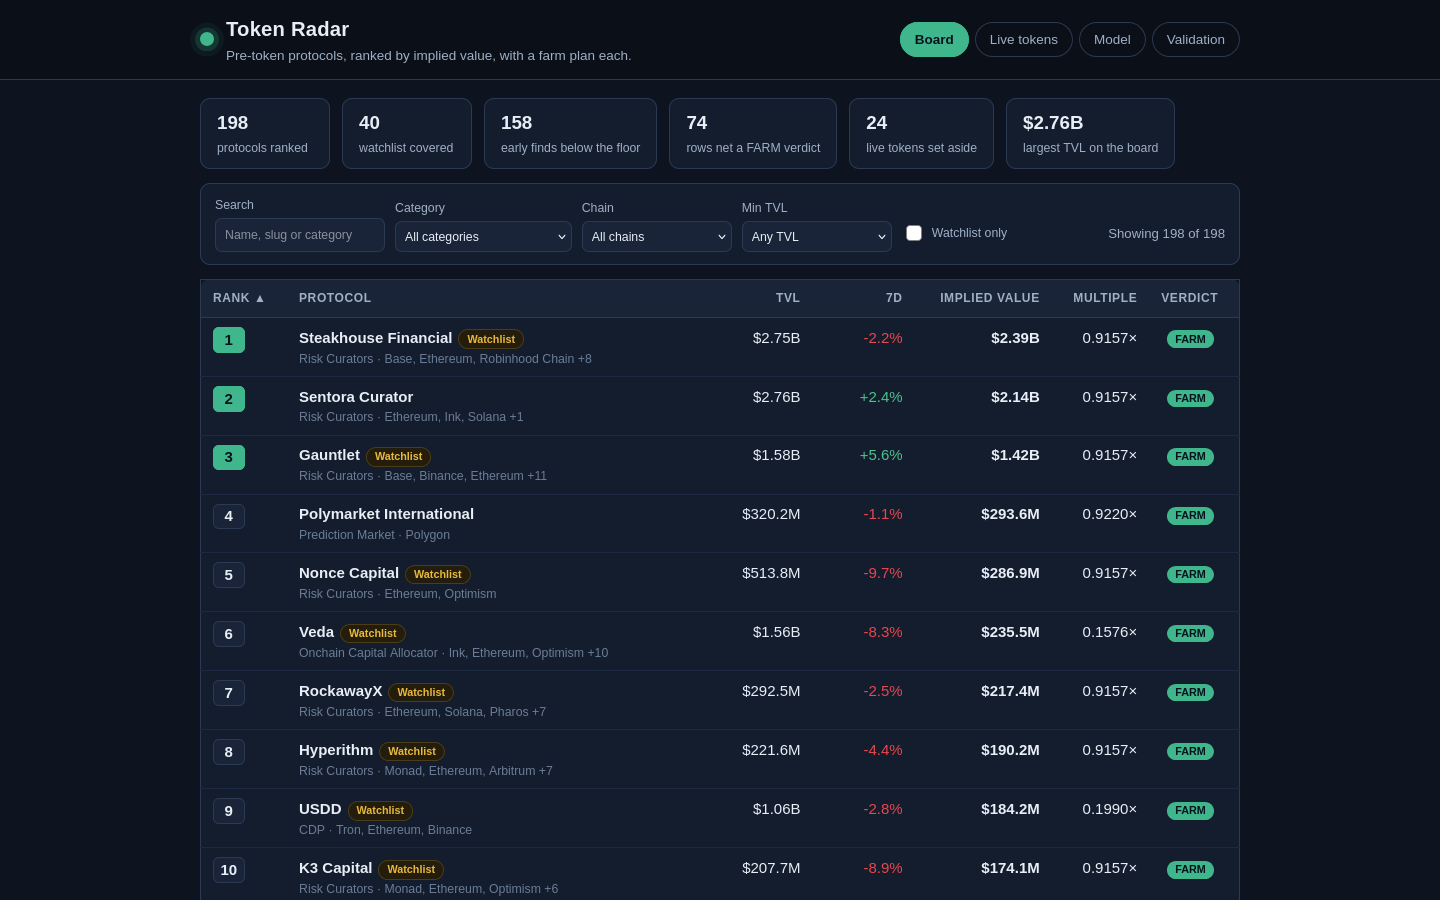
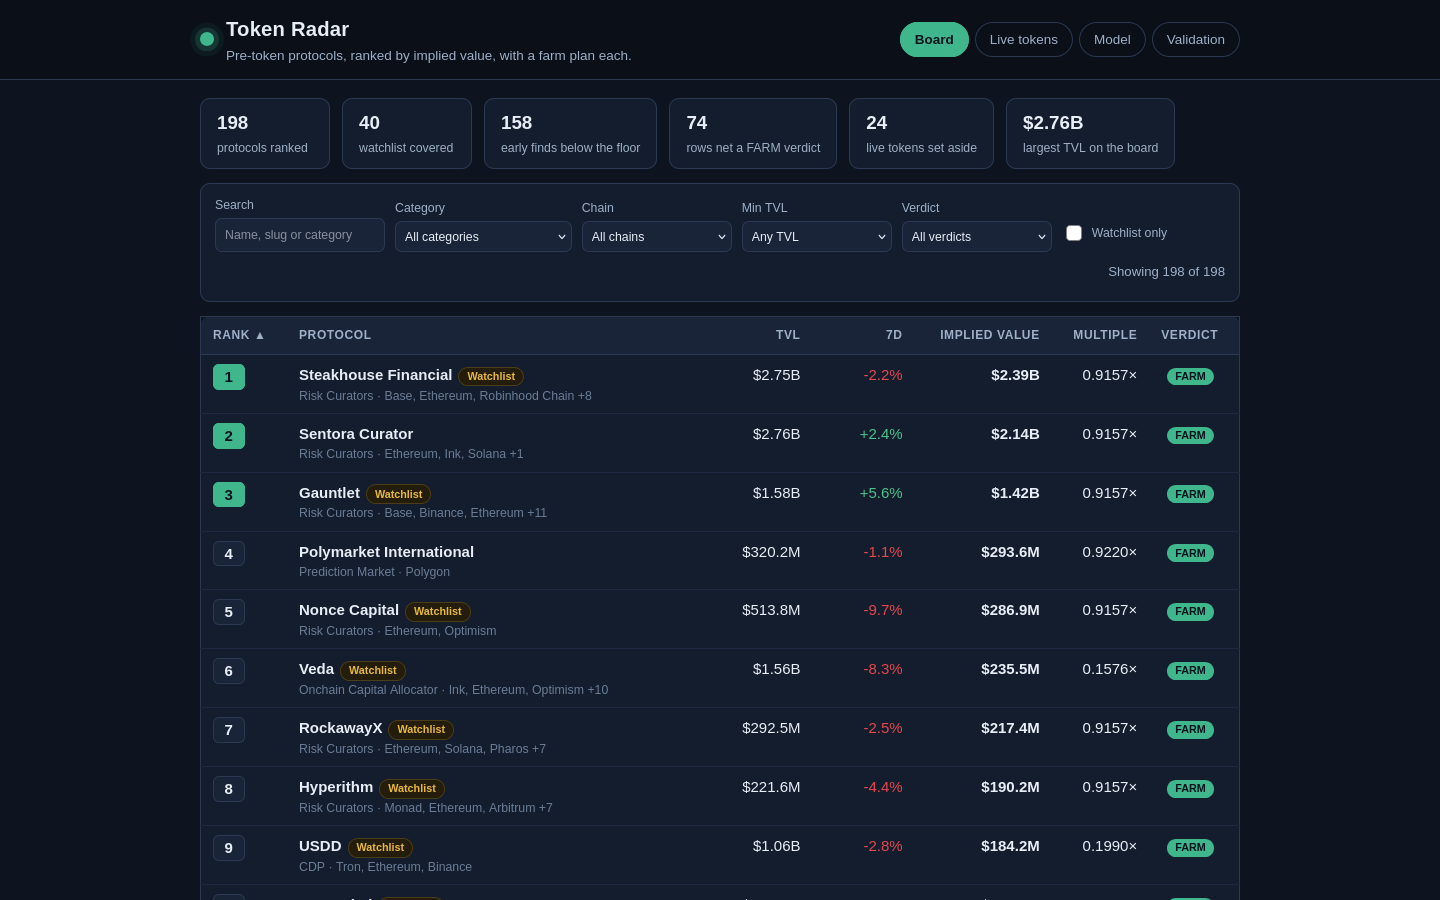
radar-comps-3: two-way blind holdout, verdict filter
validateOutOfSample now runs both directions: each half of the traded
set is predicted by a fit that never saw it, so all 92 traded protocols
are predicted blind (pooled median miss 88.2%, 63.0% within 2x). The
Validation view shows the pooled result plus both splits. The board
gains a verdict filter (FARM/THIN/SKIP with counts).

diff --git a/dashboard/app.js b/dashboard/app.js
@@ -13,10 +13,12 @@
  * protocols in that category, shrunk toward the global median when the
  * category has few traded peers. See the Model view for the full table.
  *
- * The model is tested blind in validateOutOfSample(): multiples fitted on
- * half the traded protocols, the other half predicted unseen. Every farm
- * plan ends in a netted verdict from verdictFor(): the low end of the
- * comps band against the plan's own gas and fees, FARM, THIN or SKIP.
+ * The model is tested blind in validateOutOfSample(), twice: multiples
+ * fitted on half the traded protocols, the other half predicted unseen,
+ * then the halves swap, so every traded protocol is predicted exactly
+ * once by a fit that never saw it. Every farm plan ends in a netted
+ * verdict from verdictFor(): the low end of the comps band against the
+ * plan's own gas and fees, FARM, THIN or SKIP.
  */
 (function () {
   'use strict';
@@ -143,26 +145,36 @@
     return table;
   }
 
-  /* The blind holdout: traded protocols sorted by slug, split into
-     alternating halves; multiples fitted on the even half only, the odd
-     half's market caps predicted with impliedValue(). Mirrors
-     validateOutOfSample() in lib/model.ts. */
+  /* The blind holdout, run both ways: traded protocols sorted by slug,
+     split into alternating halves; multiples fitted on one half only,
+     the other half's market caps predicted with impliedValue() — then
+     the halves swap, so every traded protocol is predicted exactly once.
+     Mirrors validateOutOfSample() in lib/model.ts. */
   function validateOutOfSample(comps, asOf, model) {
     var sorted = comps.slice().sort(function (a, b) { return a.slug < b.slug ? -1 : a.slug > b.slug ? 1 : 0; });
-    var fit = [], test = [], i;
-    for (i = 0; i < sorted.length; i++) { if (i % 2 === 0) fit.push(sorted[i]); else test.push(sorted[i]); }
-    var fitComps = calibrateCompsFrom(fit, model);
-    var predictions = test.map(function (p) {
-      var predicted = impliedValue(p, asOf, fitComps, model).implied;
-      return { slug: p.slug, name: p.name, actual: p.mcap_usd, predicted: predicted, abs_error: Math.abs(predicted - p.mcap_usd) / p.mcap_usd };
-    });
-    predictions.sort(function (a, b) { return a.abs_error - b.abs_error || (a.slug < b.slug ? -1 : 1); });
-    var errors = predictions.map(function (p) { return p.abs_error; }).sort(function (a, b) { return a - b; });
-    var n = errors.length;
-    var within2 = 0, within3 = 0;
-    for (i = 0; i < n; i++) { if (errors[i] <= 1) within2++; if (errors[i] <= 2) within3++; }
-    return { fit_count: fit.length, test_count: test.length, median_abs_error: n === 0 ? NaN : median(errors),
-      within_2x: n === 0 ? 0 : within2 / n, within_3x: n === 0 ? 0 : within3 / n, predictions: predictions };
+    function runSplit(fit, test) {
+      var fitComps = calibrateCompsFrom(fit, model);
+      var predictions = test.map(function (p) {
+        var predicted = impliedValue(p, asOf, fitComps, model).implied;
+        return { slug: p.slug, name: p.name, actual: p.mcap_usd, predicted: predicted, abs_error: Math.abs(predicted - p.mcap_usd) / p.mcap_usd };
+      });
+      predictions.sort(function (a, b) { return a.abs_error - b.abs_error || (a.slug < b.slug ? -1 : 1); });
+      var errors = predictions.map(function (p) { return p.abs_error; }).sort(function (a, b) { return a - b; });
+      var n = errors.length, within2 = 0, within3 = 0, i;
+      for (i = 0; i < n; i++) { if (errors[i] <= 1) within2++; if (errors[i] <= 2) within3++; }
+      return { fit_count: fit.length, test_count: test.length, median_abs_error: n === 0 ? NaN : median(errors),
+        within_2x: n === 0 ? 0 : within2 / n, within_3x: n === 0 ? 0 : within3 / n, predictions: predictions };
+    }
+    var even = [], odd = [], i;
+    for (i = 0; i < sorted.length; i++) { if (i % 2 === 0) even.push(sorted[i]); else odd.push(sorted[i]); }
+    var splits = [runSplit(even, odd), runSplit(odd, even)];
+    var pooledPredictions = splits[0].predictions.concat(splits[1].predictions).sort(
+      function (a, b) { return a.abs_error - b.abs_error || (a.slug < b.slug ? -1 : 1); });
+    var pooledErrors = pooledPredictions.map(function (p) { return p.abs_error; }).sort(function (a, b) { return a - b; });
+    var n = pooledErrors.length, within2 = 0, within3 = 0;
+    for (i = 0; i < n; i++) { if (pooledErrors[i] <= 1) within2++; if (pooledErrors[i] <= 2) within3++; }
+    return { splits: splits, pooled: { count: n, median_abs_error: n === 0 ? NaN : median(pooledErrors),
+      within_2x: n === 0 ? 0 : within2 / n, within_3x: n === 0 ? 0 : within3 / n, predictions: pooledPredictions } };
   }
 
   /* ---------- the farm plan (mirrors lib/model.ts: same steps, same costs) ---------- */
@@ -346,12 +358,14 @@
      the screenshots show is what this source computes. */
   var bands = bandTable(R.comp_protocols, R.model);
   var validation = validateOutOfSample(R.comp_protocols, R.as_of, R.model);
-  var farmCount = 0;
+  var farmCount = 0, thinCount = 0, skipCount = 0;
   rows.forEach(function (r) {
     var v = impliedValue(r, R.as_of, R.comps, R.model);
     r.verdict = verdictFor(r, v, bands, R.model);
     r.verdict_rank = r.verdict.verdict === 'FARM' ? 0 : r.verdict.verdict === 'THIN' ? 1 : 2;
     if (r.verdict.verdict === 'FARM') farmCount++;
+    else if (r.verdict.verdict === 'THIN') thinCount++;
+    else skipCount++;
   });
 
   var state = {
@@ -360,6 +374,7 @@
     query: '',
     category: '',
     chain: '',
+    verdict: '',
     watchOnly: false,
     minTvl: 0,
     sortKey: 'rank',
@@ -376,6 +391,7 @@
       if (q && (r.name.toLowerCase().indexOf(q) === -1 && r.slug.indexOf(q) === -1 && String(r.category || '').toLowerCase().indexOf(q) === -1)) return false;
       if (state.category && r.category !== state.category) return false;
       if (state.chain && r.chains.indexOf(state.chain) === -1) return false;
+      if (state.verdict && r.verdict.verdict !== state.verdict) return false;
       if (state.watchOnly && !isWatchlisted(r)) return false;
       if (r.tvl_usd < state.minTvl) return false;
       return true;
@@ -438,12 +454,18 @@
       '<option value="100000000"' + (state.minTvl === 100000000 ? ' selected' : '') + '>$100M+</option>' +
       '<option value="500000000"' + (state.minTvl === 500000000 ? ' selected' : '') + '>$500M+</option>' +
       '<option value="1000000000"' + (state.minTvl === 1000000000 ? ' selected' : '') + '>$1B+</option></select></label>' +
+      '<label class="field">Verdict<select id="f-verdict">' +
+      '<option value=""' + (state.verdict === '' ? ' selected' : '') + '>All verdicts</option>' +
+      '<option value="FARM"' + (state.verdict === 'FARM' ? ' selected' : '') + '>FARM (' + farmCount + ')</option>' +
+      '<option value="THIN"' + (state.verdict === 'THIN' ? ' selected' : '') + '>THIN (' + thinCount + ')</option>' +
+      '<option value="SKIP"' + (state.verdict === 'SKIP' ? ' selected' : '') + '>SKIP (' + skipCount + ')</option></select></label>' +
       '<label class="field check"><input id="f-watch" type="checkbox"' + (state.watchOnly ? ' checked' : '') + '> Watchlist only</label>' +
       '<span class="count" id="f-count"></span>';
     document.getElementById('f-q').addEventListener('input', function (e) { state.query = e.target.value; renderView(); });
     document.getElementById('f-cat').addEventListener('change', function (e) { state.category = e.target.value; renderView(); });
     document.getElementById('f-chain').addEventListener('change', function (e) { state.chain = e.target.value; renderView(); });
     document.getElementById('f-tvl').addEventListener('change', function (e) { state.minTvl = Number(e.target.value); renderView(); });
+    document.getElementById('f-verdict').addEventListener('change', function (e) { state.verdict = e.target.value; renderView(); });
     document.getElementById('f-watch').addEventListener('change', function (e) { state.watchOnly = e.target.checked; renderView(); });
   }
 
@@ -536,8 +558,9 @@
   }
 
   function validationHtml() {
-    var best = validation.predictions.slice(0, 5);
-    var worst = validation.predictions.slice(-5).reverse();
+    var pooled = validation.pooled;
+    var best = pooled.predictions.slice(0, 5);
+    var worst = pooled.predictions.slice(-5).reverse();
     function predRows(list) {
       return list.map(function (p) {
         return '<tr><td><span class="name">' + esc(p.name) + '</span><div class="sub">' + esc(p.slug) + '</div></td>' +
@@ -545,16 +568,24 @@
           '<td class="num">' + pctPlain(p.abs_error * 100) + '</td></tr>';
       }).join('');
     }
+    var splitRows = validation.splits.map(function (s, i) {
+      return '<tr><td>' + (i === 0 ? 'A: fitted on even slugs' : 'B: fitted on odd slugs') + '</td>' +
+        '<td class="num">' + s.fit_count + '</td><td class="num">' + s.test_count + '</td>' +
+        '<td class="num">' + pctPlain(s.median_abs_error * 100) + '</td>' +
+        '<td class="num">' + pctPlain(s.within_2x * 100) + '</td>' +
+        '<td class="num">' + pctPlain(s.within_3x * 100) + '</td></tr>';
+    }).join('');
     return '<article class="detail"><h2>Validation: tested blind</h2>' +
-      '<p class="meta">The multiples are fitted on one half of the traded protocols and tested on the other half, which calibration never sees. The split is every second protocol in slug order, so anyone can reproduce it.</p>' +
+      '<p class="meta">The multiples are fitted on one half of the traded protocols and tested on the other half, which calibration never sees — then the halves swap, so every traded protocol is predicted exactly once by a fit that never saw it. The split is every second protocol in slug order, so anyone can reproduce it.</p>' +
       '<div class="grid">' +
-      '<div class="cell"><span>Fitted on</span><b>' + validation.fit_count + ' traded protocols</b></div>' +
-      '<div class="cell"><span>Tested on</span><b>' + validation.test_count + ' unseen protocols</b></div>' +
-      '<div class="cell"><span>Median miss</span><b>' + pctPlain(validation.median_abs_error * 100) + '</b></div>' +
-      '<div class="cell"><span>Within 2× of the market cap</span><b>' + pctPlain(validation.within_2x * 100) + '</b></div>' +
-      '<div class="cell"><span>Within 3×</span><b>' + pctPlain(validation.within_3x * 100) + '</b></div>' +
+      '<div class="cell"><span>Predicted blind</span><b>' + pooled.count + ' traded protocols</b></div>' +
+      '<div class="cell"><span>Median miss</span><b>' + pctPlain(pooled.median_abs_error * 100) + '</b></div>' +
+      '<div class="cell"><span>Within 2× of the market cap</span><b>' + pctPlain(pooled.within_2x * 100) + '</b></div>' +
+      '<div class="cell"><span>Within 3×</span><b>' + pctPlain(pooled.within_3x * 100) + '</b></div>' +
       '</div>' +
-      '<p class="sub">A comps multiple is a rough instrument: the median unseen protocol is missed by about ' + pctPlain(validation.median_abs_error * 100) + '. The board ranks by the same fitted multiples, so read the ranks as bands, not prices. The holdout is validateOutOfSample() in this page\'s source.</p>' +
+      '<h3>Both directions</h3>' +
+      '<table><thead><tr><th>Split</th><th class="num">Fitted on</th><th class="num">Tested on</th><th class="num">Median miss</th><th class="num">Within 2×</th><th class="num">Within 3×</th></tr></thead><tbody>' + splitRows + '</tbody></table>' +
+      '<p class="sub">A comps multiple is a rough instrument: the median unseen protocol is missed by about ' + pctPlain(pooled.median_abs_error * 100) + '. The board ranks by the same fitted multiples, so read the ranks as bands, not prices. The holdout is validateOutOfSample() in this page\'s source.</p>' +
       '<h3>Closest predictions</h3>' +
       '<table><thead><tr><th>Protocol</th><th class="num">Market cap</th><th class="num">Predicted</th><th class="num">Miss</th></tr></thead><tbody>' + predRows(best) + '</tbody></table>' +
       '<h3>Furthest predictions</h3>' +
@@ -587,7 +618,7 @@
       '<p>Wrapped, staked and bridged products of tokens that already trade are kept out of the early set and out of the comps by the house\'s own watchlist rule: ' +
       'bridge, liquid staking and restaking categories, wrapped/staked names, version markers and exchange names. Every watchlist slug is always ranked.</p>' +
       '<h3>Tested blind</h3>' +
-      '<p>The multiples are fitted on half the traded protocols and tested on the other half, which calibration never sees. Median miss ' + pctPlain(validation.median_abs_error * 100) + ', ' + pctPlain(validation.within_2x * 100) + ' within 2× of the market cap. See the Validation view for the method and every prediction.</p>' +
+      '<p>The multiples are fitted twice: once on each half of the traded protocols, each half tested by a fit that never saw it, so all ' + validation.pooled.count + ' traded protocols are predicted blind. Median miss ' + pctPlain(validation.pooled.median_abs_error * 100) + ', ' + pctPlain(validation.pooled.within_2x * 100) + ' within 2× of the market cap. See the Validation view for the method and every prediction.</p>' +
       '<h3>Comps table</h3>' +
       '<table><thead><tr><th>Category</th><th class="num">Multiple</th><th class="num">Traded peers</th></tr></thead><tbody>' +
       compRows + '<tr><td><b>Global fallback</b></td><td class="num"><b>' + mult4(R.comps.global) + '×</b></td><td class="num"><b>' + R.comps.global_count + '</b></td></tr>' +

diff --git a/lib/model.ts b/lib/model.ts
@@ -17,10 +17,12 @@
 //      discounted for the risk that the record is new.
 //   4. Reach: a protocol live on more chains gets a small premium, capped.
 //
-// The model is tested blind before it is trusted: the traded protocols are
-// split in two by slug order, the multiples are fitted on one half only,
-// and the other half's market caps are predicted without ever touching
-// calibration. validateOutOfSample() reports the miss. Every farm plan
+// The model is tested blind before it is trusted, twice: the traded
+// protocols are split in two by slug order, the multiples are fitted on
+// one half only and the other half's market caps are predicted without
+// ever touching calibration — then the halves swap, so every traded
+// protocol is predicted exactly once by a fit that never saw it.
+// validateOutOfSample() reports both splits and the pooled miss. Every farm plan
 // ends in a netted verdict: the low end of the comps band, a stated share
 // of a stated community allocation, against the plan's own gas and fees.
 // FARM, THIN or SKIP, with the arithmetic on the page.
@@ -104,7 +106,7 @@ export const MODEL: ModelConstants = {
 };
 
 /** The model's version label, shown in the dashboard. */
-export const MODEL_VERSION = 'radar-comps-2';
+export const MODEL_VERSION = 'radar-comps-3';
 
 /** How many live-token protocols the Live token view carries, by market cap. */
 export const LIVE_ROWS = 24;
@@ -218,14 +220,26 @@ export interface ValidationPrediction {
   abs_error: number;
 }
 
-/** The blind holdout's result: how far the fitted model misses unseen market caps. */
-export interface ValidationResult {
+/** One direction of the blind holdout: fitted on one half, tested on the other. */
+export interface ValidationSplit {
   fit_count: number;
   test_count: number;
   median_abs_error: number;
   within_2x: number;
   within_3x: number;
   predictions: ValidationPrediction[];
+}
+
+/** The blind holdout's result: both directions, plus every protocol predicted once. */
+export interface ValidationResult {
+  splits: ValidationSplit[];
+  pooled: {
+    count: number;
+    median_abs_error: number;
+    within_2x: number;
+    within_3x: number;
+    predictions: ValidationPrediction[];
+  };
 }
 
 /** A farm plan's netted verdict: FARM with conviction, THIN with a small position, or SKIP. */
@@ -394,32 +408,55 @@ export function calibrateBands(snapshot: Snapshot, model: ModelConstants = MODEL
 }
 
 /**
- * The blind holdout: the traded protocols, sorted by slug, split into
- * alternating halves; the multiples are fitted on the even half only and
- * the odd half's market caps are predicted with the same impliedValue()
- * the board uses. Nothing in the test half touches calibration, so the
- * miss is the model's honest miss on unseen protocols.
+ * The blind holdout, run both ways: the traded protocols, sorted by slug,
+ * split into alternating halves; the multiples are fitted on one half
+ * only and the other half's market caps are predicted with the same
+ * impliedValue() the board uses — then the halves swap. Nothing in a
+ * test half touches its calibration, and every traded protocol is
+ * predicted exactly once, so the pooled miss is the model's honest miss
+ * on unseen protocols and neither direction can hide behind a lucky split.
  */
 export function validateOutOfSample(snapshot: Snapshot, model: ModelConstants = MODEL): ValidationResult {
   const sorted = compProtocols(snapshot).sort((a, b) => (a.slug < b.slug ? -1 : a.slug > b.slug ? 1 : 0));
-  const fit = sorted.filter((_, i) => i % 2 === 0);
-  const test = sorted.filter((_, i) => i % 2 === 1);
-  const fitComps = calibrateComps({ ...snapshot, protocols: fit }, model);
-  const predictions: ValidationPrediction[] = test.map((p) => {
-    const predicted = impliedValue(p, snapshot.as_of, fitComps, model).implied;
-    const actual = p.mcap_usd;
-    return { slug: p.slug, name: p.name, actual, predicted, abs_error: Math.abs(predicted - actual) / actual };
-  });
-  predictions.sort((a, b) => a.abs_error - b.abs_error || (a.slug < b.slug ? -1 : 1));
-  const errors = predictions.map((p) => p.abs_error).sort((a, b) => a - b);
-  const n = errors.length;
+  const runSplit = (
+    fit: (SnapshotProtocol & { mcap_usd: number })[],
+    test: (SnapshotProtocol & { mcap_usd: number })[],
+  ): ValidationSplit => {
+    const fitComps = calibrateComps({ ...snapshot, protocols: fit }, model);
+    const predictions: ValidationPrediction[] = test.map((p) => {
+      const predicted = impliedValue(p, snapshot.as_of, fitComps, model).implied;
+      const actual = p.mcap_usd;
+      return { slug: p.slug, name: p.name, actual, predicted, abs_error: Math.abs(predicted - actual) / actual };
+    });
+    predictions.sort((a, b) => a.abs_error - b.abs_error || (a.slug < b.slug ? -1 : 1));
+    const errors = predictions.map((p) => p.abs_error).sort((a, b) => a - b);
+    const n = errors.length;
+    return {
+      fit_count: fit.length,
+      test_count: test.length,
+      median_abs_error: n === 0 ? NaN : median(errors),
+      within_2x: n === 0 ? 0 : errors.filter((e) => e <= 1).length / n,
+      within_3x: n === 0 ? 0 : errors.filter((e) => e <= 2).length / n,
+      predictions,
+    };
+  };
+  const even = sorted.filter((_, i) => i % 2 === 0);
+  const odd = sorted.filter((_, i) => i % 2 === 1);
+  const splits = [runSplit(even, odd), runSplit(odd, even)];
+  const pooledPredictions = [...splits[0].predictions, ...splits[1].predictions].sort(
+    (a, b) => a.abs_error - b.abs_error || (a.slug < b.slug ? -1 : 1),
+  );
+  const pooledErrors = pooledPredictions.map((p) => p.abs_error).sort((a, b) => a - b);
+  const n = pooledErrors.length;
   return {
-    fit_count: fit.length,
-    test_count: test.length,
-    median_abs_error: n === 0 ? NaN : median(errors),
-    within_2x: n === 0 ? 0 : errors.filter((e) => e <= 1).length / n,
-    within_3x: n === 0 ? 0 : errors.filter((e) => e <= 2).length / n,
-    predictions,
+    splits,
+    pooled: {
+      count: n,
+      median_abs_error: n === 0 ? NaN : median(pooledErrors),
+      within_2x: n === 0 ? 0 : pooledErrors.filter((e) => e <= 1).length / n,
+      within_3x: n === 0 ? 0 : pooledErrors.filter((e) => e <= 2).length / n,
+      predictions: pooledPredictions,
+    },
   };
 }
 
